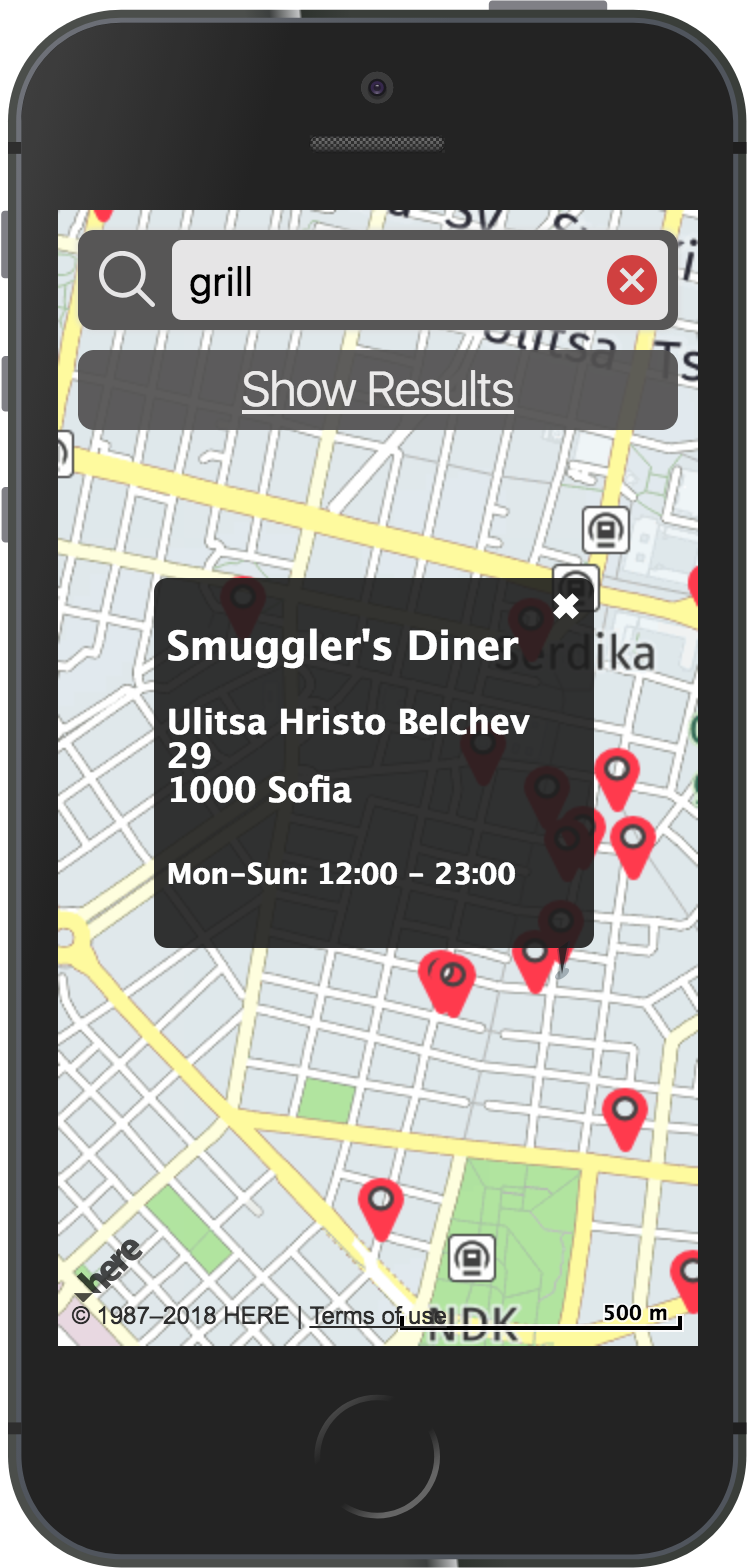
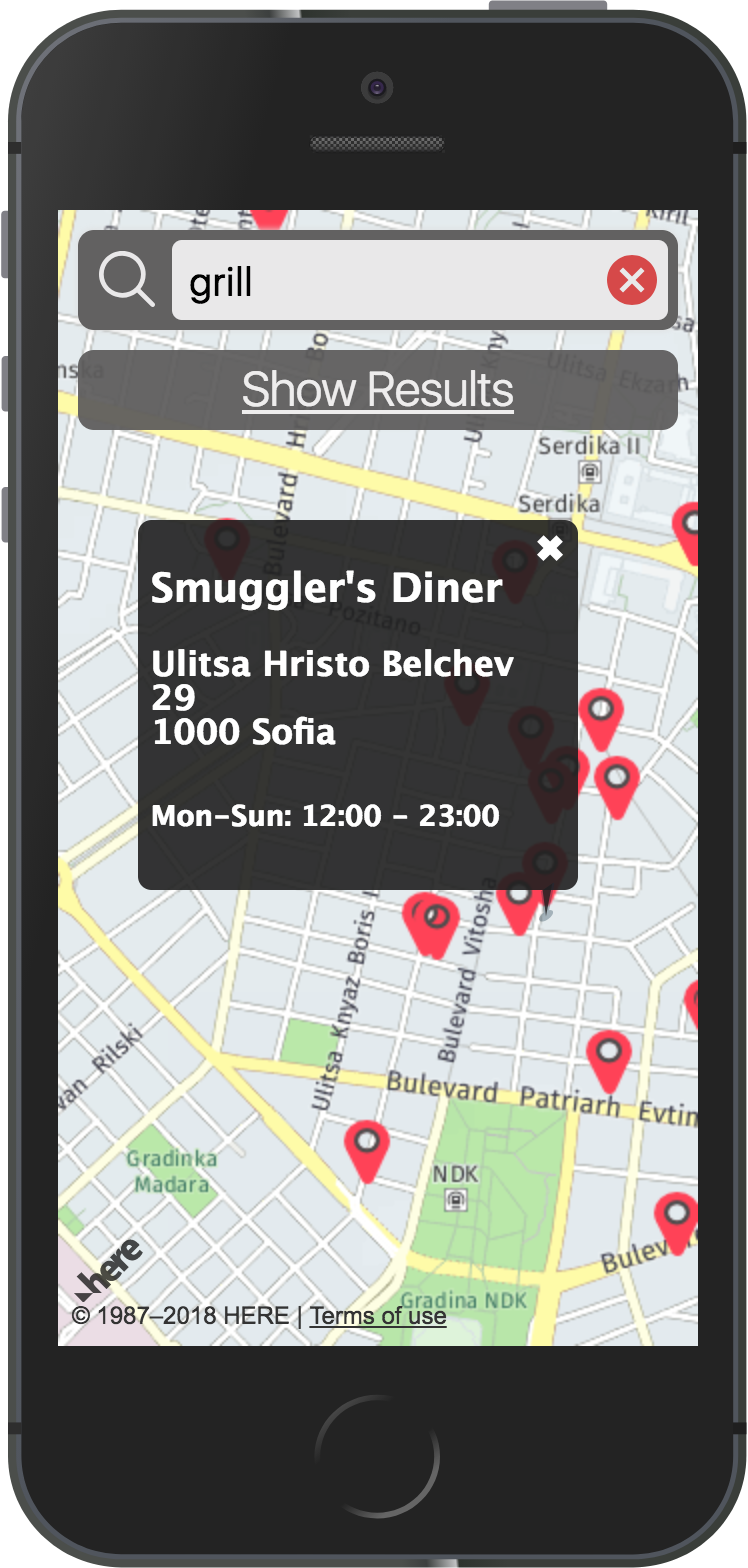
doc: Update doc screenshots

Changed region(s): [[0.0615, 0.125, 0.9532, 0.875], [0.4305, 0.1875, 0.492, 0.25], [0.1537, 0.1875, 0.1845, 0.2188]]

diff --git a/README.md b/README.md
@@ -54,8 +54,9 @@ On the page you will see three main elements:
 * To search specific POI you are interested in just type in the Search Box and your results will update in both the **Map** and **List**
 
 <p align="center">
-        <img src="public/screenshots/iphone5.png" width="320" title="Github Logo">
-        <img src="public/screenshots/iphone5_info.png" width="320" title="Github Logo">
+        <img src="public/screenshots/iphone5_results.png" width="280" alt="Search results on a phone">
+        <img src="public/screenshots/iphone5_info.png" width="280" alt="InfoBubble on a phone">
+        <img src="public/screenshots/iphone5_map.png" width="280" alt="Map results on a phone">
 </p>
 
 ## Dependencies
